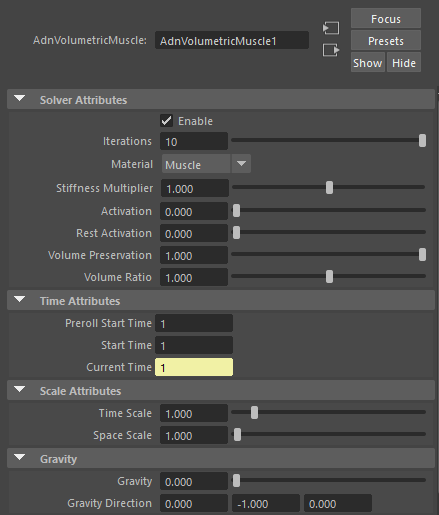
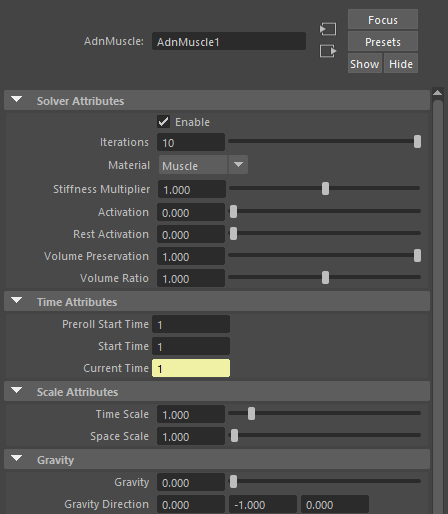
- Use of "AdnMuscle" instead of "Muscle" - Add pending/updated screenshots. - Fix broken references. - Small adjustments.

diff --git a/docs/documentation/maya/muscle.md b/docs/documentation/maya/muscle.md
@@ -2,13 +2,11 @@
 
 AdnMuscle is a Maya deformer for fast, robust and easy-to-configure volumetric muscle simulation for digital assets. Thanks to the combination of internal (structural) and external (attachments) constraints, this deformer can produce dynamics that allow the mesh to acquire the simulated characteristics of a muscle with realistic volume preservation, fibers activations to modulate the rigidity and attachments properties to external objects to follow the global kinematics of the character.
 
-<!-- DEV NOTE: change paint tool references once tools.md has been merged-->
-
-The influence of these constraints have in the simulated mesh can be freely modified by painting them via the [AdonisFX Paint Tool](index.md) or by uniformingly regulating their influence via multipliers in the attribute editor. Beyond these constraints, several paramenters to regulate the muscle's dynamics are available to modify the deformer's behaviour as a whole.
+The influence of these constraints have in the simulated mesh can be freely modified by painting them via the [AdonisFX Paint Tool](tools.md#adonisfx-paint-tool) or by uniformingly regulating their influence via multipliers in the attribute editor. Beyond these constraints, several paramenters to regulate the muscle's dynamics are available to modify the deformer's behaviour as a whole.
 
 # How to Use
 
-The Adonis Muscle deformer is of great simplicity so set up and apply to a mesh within a Maya scene. The way this deformer works, a mesh (the simulated mesh) is set within a scene, usually with a series of attachments. Those attachments mark the anchor points for the muscle, prepared to act as tendons, and will set great part of the dynamics of the deformer.
+The AdnMuscle deformer is of great simplicity so set up and apply to a mesh within a Maya scene. The way this deformer works, a mesh (the simulated mesh) is set within a scene, usually with a series of attachments. Those attachments mark the anchor points for the muscle, prepared to act as tendons, and will set great part of the dynamics of the deformer.
 
 ## Requirements
 
@@ -17,37 +15,35 @@ To create a Muscle deformer within a Maya scene, the following inputs must be pr
   - <b class="mesh_color"> Attachments </b> to which the simulated muscle will be attached to. Any transform node can be used (e.g. bones, locators, meshes, etc). This input is optional and unlimited.
   - <b class="mesh_color"> Muscle Geometry </b> that the muscle deformer will be applied onto.
 
-!!! Notes
-    - It is not mandatory to select the attachments on creation of the muscle deformer. We can add and remove attachments after creating the deformer, check this [advanced section](#how-to-add-and-remove-attachments) for further details.
+> [!NOTE]
+> - It is not mandatory to select the attachments on creation of the muscle deformer. We can add and remove attachments after creating the deformer, check this [advanced section](#attachments) for further details.
 
 ## Create Muscle
 
 1. Select the attachments (if any), then the geometry.
 2. Press the ![Muscle button](images/adn_muscle.png){width=40px} button in the AdonisFX shelf or press Muscle in the AdonisFX menu. 
     - If the shelf button is double-clicked or the option box in the menu is selected a window will be displayed were a custom name and initial attribute values can be set.
-3. The muscle is ready to simulate with default settings. Check [this page](#attributes) to customize the configuration.
+3. The muscle is ready to simulate with default settings. Check [this section](#attributes) to customize the configuration.
 
 ## Paintable Weights
 
-In order to provide more artistic control, some key parameters of the muscle solver are exposed as paintable attributes in the deformer. The [AdonisFX Paint Tool](#index.md) must be used to paint those parameters to ensure that the values satisfy the solver requirements.
+In order to provide more artistic control, some key parameters of the muscle solver are exposed as paintable attributes in the deformer. The [AdonisFX Paint Tool](tools.md#adonisfx-paint-tool) must be used to paint those parameters to ensure that the values satisfy the solver requirements.
 
 - *Tendons*: floating values to indicate the source of the muscle fibers. The solver will use that information to make an estimation of the fiber direction at each vertex. We recommend to set a value of 1.0 wherever the tendinous tissue would be in an anatomically realistic muscle and a value of 0.0 in the rest of the mesh.
 - *Attachment Constraints*: weight to indicate the influence of each attachment at each vertex of the muscle.
-- *Fibers*: the deformer estimates the fiber directions at each vertex based on the tendon weights. In case that the estimated fibers do not fit well to the desired directions, we can use the paint tool to comb the fibers manually. The fibers can be displayed using the [Draw Fibers](#debug) option in the deformer 
+- *Fibers*: the deformer estimates the fiber directions at each vertex based on the tendon weights. In case that the estimated fibers do not fit well to the desired directions, we can use the paint tool to comb the fibers manually. The fibers can be displayed using the [Draw Fibers](#debug-features) option in the deformer 
 - *Compression Resistance*: force to correct the edge lengths if the current length is smaller than the rest length. A higher value represents higher correction.
 - *Stretching Resistance*: force to correct the edge lengths if the current length is greater than the rest length. A higher value represents higher correction.
 - *Slide on Segment Constraints*: weight to force vertices to displace only in the direction of a user-specified group of segments.
 
 <figure>
   <img src="images/muscle_paint_example.png"> 
-  <figcaption>Figure 1: Example of painted weights on a biceps. From left to right: Tendons weights, Attachment weight for the attachment at the top, Attachment weight for the attachment at the bottom; and Fibers directions at each vertex.</figcaption>
+  <figcaption><b>Figure 1:</b> Example of painted weights on a biceps. From left to right: Tendons weights, Attachment weight for the attachment at the top, Attachment weight for the attachment at the bottom; and Fibers directions at each vertex.</figcaption>
 </figure>
 
 > [!NOTE]
 > - The attachment weights are normalised at each vertex. This normalisation is applied when a stroke is finished. The use of the AdonisFX painting tool is mandatory for that. The basics of the paint tool are explained in [this section](#adonisfx-paint-tool).
 > - We recommend to paint the values for the most influent attractors at the end in order to avoid the internal normalisation override them in further strokes.
-
-<!-- DEV NOTE: Remove this after merging issue #11 where we created the tools.md page -->
 
 ### AdonisFX Paint Tool
 
@@ -55,7 +51,7 @@ To configure the paintable attributes in the Muscle deformer, the AdonisFX paint
 
 <figure>
   <img src="images/paint_tool_muscle.png"> 
-  <figcaption>Figure 2: AdonisFX Paint Tool</figcaption>
+  <figcaption><b>Figure 2:</b> AdonisFX Paint Tool</figcaption>
 </figure>
 
 Do the following to open the tool:
@@ -65,9 +61,9 @@ Do the following to open the tool:
 
 The selected attribute in the combo box exposed at the top of the UI is the active attribute in the paint context. Now you can use the tool as it was the Artisan's tool from Maya, the behaviour of the different widgets/fields is the same.
 
-<figure style="margin-left:30%;" markdown> 
+<figure markdown>
   ![Pain Tool Muscles Attributes example](images/paint_tool_muscle_attributes.png) 
-  <figcaption style="margin-right:30%"> Figure 3: AdonisFX paint tool displaying the paintable attributes of the deformer. </figcaption> 
+  <figcaption><b>Figure 3:</b> AdonisFX paint tool displaying the paintable attributes of the deformer. </figcaption>
 </figure>
 
 Following, we present the key aspects to keep in mind while painting each attribute:
@@ -80,12 +76,17 @@ Following, we present the key aspects to keep in mind while painting each attrib
   2. Tendons
     1. We recommend to paint values of 1.0 wherever the tendon tissue is and values of 0.0 in the rest of the mesh. This painting will internally trigger an automatic estimation of fibers directions.
   3. Fibers
-    1. To visualise the fibers, enable the [Draw Fibers](#debug) attribute in the deformer or go to the Adonis menu > Edit Muscle > Draw Fibers.
+    1. To visualise the fibers, enable the [Draw Fibers](#debug-features) attribute in the deformer or go to the Adonis menu > Edit Muscle > Draw Fibers.
     2. From the deformer Attribute Editor, it is also possible to scale the fibers vectors for debugging purposes.
     3. Comb the fibers towards the desired direction.
   4. Stretching and Compression Resistance
     1. Stretching resistance is set to 1.0 by default. With this value, the solver will apply the corrections to the edges needed to keep the lengths at rest. Set values lower than 1.0 to linearly reduce the amount of correction applied by the solver when the edges get stretched.
     2. Compression resistance is set to 1.0 by default. With this value, the solver will apply the corrections to the edges needed to keep the lengths at rest. Set values lower than 1.0 to linearly reduce the amount of correction applied by the solver when the edges get compressed.
+  5. Slide On Segments.
+    1. If this attribute type is selected, then a list widget is shown with the names of the segments (combination of anchor points) connected to the AdnMuscle deformer.
+    2. Select the desired segment you want to paint from the list widget and paint the weight values.
+    3. If more than one segment was added to the system, then the paint tool will normalise the weights automatically after a stroke has been completed.
+    4. If any anchor/segment is removed or added to the system, then the paint tool will refresh the list on mouse hover over the UI.
 
 # Attributes
 
@@ -99,7 +100,7 @@ Following, we present the key aspects to keep in mind while painting each attrib
     <ul><li>Fat: 10^7^</li><li>Muscle: 5e^3^</li><li>Rubber: 10^6^</li><li>Tendon: 5e^7^</li><li>Leather: 10^8^</li><li>Wood: 6e^9^</li><li>Concrete: 2.5e^10^</li></ul>
  - **Stiffness Multiplier** (Float, 1.0): Multiplier factor to scale up or down the material stiffness.
      - Has a range of \[0.0, 2.0\]
- - **Activation** (Float, 0.0): Current activation of the deformed ribbon muscle. The activation modifies the stiffness of the muscle depending on the fibers direction of the muscle.
+ - **Activation** (Float, 0.0): Current activation of the deformed muscle. The activation modifies the stiffness of the muscle depending on the fibers direction of the muscle.
      - Has a range of \[0.0, 1.0\]
  - **Rest Activation** (Float, 0.0): Value representing the amount of rest activation to apply to the muscle.
      - Has a range of \[0.0, 1.0\]
@@ -146,30 +147,30 @@ Following, we present the key aspects to keep in mind while painting each attrib
 ## Attribute Editor Template
 
 <figure markdown>
-  ![Muscle editor first part](images/attribute_editor_part_one_muscle.png) 
-  <figcaption>Figure 1: Muscle Attribute Editor</figcaption>
+  ![AdnMuscle editor first part](images/attribute_editor_part_one_muscle.png) 
+  <figcaption><b>Figure 4:</b> AdnMuscle Attribute Editor</figcaption>
 </figure>
 
 <figure markdown>
-  ![Muscle editor second part](images/attribute_editor_part_two_muscle.png)
-  <figcaption>Figure 2: Muscle Attribute Editor (Advanced Settings)</figcaption>
+  ![AdnMuscle editor second part](images/attribute_editor_part_two_muscle.png)
+  <figcaption><b>Figure 5:</b> AdnMuscle Attribute Editor (Advanced Settings)</figcaption>
 </figure>
 
 # Advanced
 
 ## Attachments
 
-Once the Muscle deformer is created, it is possible to add and remove new attachments to the system. 
+Once the AdnMuscle deformer is created, it is possible to add and remove new attachments to the system. 
 
 - **Add attachments**:  
     1. Select the transform nodes (one or more) that you want to assign as attachments to the Muscle.
-    2. Select the mesh that has the Muscle deformer applied.
-    3. Press the ![Add Attachments button](images/adn_add_attachment.png){width=40px} button in the AdonisFX shelf or press Add Attachments in the AdonisFX menu from the Edit Muscle submenu.
+    2. Select the mesh that has the AdnMuscle deformer applied.
+    3. Press the ![Add Attachments button](images/adn_add_attachment.png){width=40px} button in the AdonisFX shelf or press "Add Attachments" in the AdonisFX menu from the Edit Muscle submenu.
 - **Remove attachments**:
     1. Select one or more transform nodes that are assigned as attachments to the Muscle.
-    2. Select the mesh that has the Muscle deformer applied.
-    3. Press the ![Remove Attachments button](images/adn_remove_attachment.png){width=40px} button in the AdonisFX shelf or press Remove Attachments in the AdonisFX menu from the Edit Muscle submenu. 
-    4. Alternatively, if only the mesh with the Muscle deformer is selected, when pressing the ![Remove Attachments button](images/adn_remove_attachment.png){width=40px} button, all attachments will be removed.
+    2. Select the mesh that has the AdnMuscle deformer applied.
+    3. Press the ![Remove Attachments button](images/adn_remove_attachment.png){width=40px} button in the AdonisFX shelf or press "Remove Attachments" in the AdonisFX menu from the Edit Muscle submenu. 
+    4. Alternatively, if only the mesh with the AdnMuscle deformer is selected, when pressing the ![Remove Attachments button](images/adn_remove_attachment.png){width=40px} button, all attachments will be removed.
 
 ## Slide on Segment Constraint
 
@@ -177,29 +178,34 @@ Additionally to all previously mentioned constraints, muscles can have an additi
 
 - **Add Segment**:
     1. Select the transform nodes (two or more if this is the first segment you are adding) from which you would wish to make a segment for the muscle to slide on.
-    2. Select the mesh that has the Muscle deformer applied.
-    3. Press Add Attachments in the AdonisFX menu from the Edit Muscle submenu.
+    2. Select the mesh that has the AdnMuscle deformer applied.
+    3. Press "Add Slide On Segment Constraint" in the AdonisFX menu from the Edit Muscle submenu.
 - **Remove Segment**:  
     1. Select one or more transform nodes that are assigned as attachments to the Muscle.
-    2. Select the mesh that has the Muscle deformer applied.
-    3. press Remove Attachments in the AdonisFX menu from the Edit Muscle submenu. 
-    4. Alternatively, if only the mesh with the Muscle deformer is selected, when pressing Remove Attachments in the AdonisFX menu, all attachments will be removed.
+    2. Select the mesh that has the AdnMuscle deformer applied.
+    3. press "Remove Slide On Segment Constraint" in the AdonisFX menu from the Edit Muscle submenu. 
+    4. Alternatively, if only the mesh with the AdnMuscle deformer is selected, when pressing "Remove Slide On Segment Constraint" in the AdonisFX menu, all attachments will be removed.
 
 ## Debugger
 
-To better visualize deformer constraints and attributes in the Maya viewport there is the option to enable the debugger, found in the dropdown menu labeled "Debug" in the attribute editor.
+In order to better visualize deformer constraints and attributes in the Maya viewport there is the option to enable the debugger, found in the dropdown menu labeled "Debug" in the attribute editor.
 
-To enable the debugger the *Debug* checkbox must be marked.To select the specific feature you would like to visualize, choose it from the list provided in *Features*. 
+To enable the debugger the *Debug* checkbox must be marked. To select the specific feature you would like to visualize, choose it from the list provided in *Features*. 
 
 ### Debug features
 
-The features that can be visualized with the debugger in the Skin deformer are:
+The features that can be visualized with the debugger in the AdnMuscle deformer are:
 
  - **Muscle Fibers**: for each vertex, a line will be drawn showing the direction of the muscle fibers.
  - **Attachments Constraints**: for each vertex with an attachment constraint weight greater than 0.0, a line will be drawn from the mesh to its respective attachment.
  - **Sliding on Segment Constraints**: for each vertex with a sliding on segment weight greater than 0.0, a line will be drawn from the mesh to the closest point to its respective segment.
 
-Enabling the debugger and selecting one of these constraints will draw lines from the influenced vertices in the simulated mesh to their corresponding reference vertices. 
+Enabling the debugger and selecting one of these constraints will draw lines from the influenced vertices in the simulated mesh to their corresponding reference vertices.
+
+<figure markdown>
+  ![AdnMuscle debug](images/muscle_debug.png)
+  <figcaption><b>Figure 6:</b> AdnMuscle being debugged (from left ro right, "Muscle Fibers", "Attachment Constraints" and "Slide On Segment")</figcaption>
+</figure>
 
 ### Debugger attributes
 
@@ -213,6 +219,6 @@ Additionally, for the specific case of debugging fibers, one more attribute is a
  - **Fiber scale value** (Float, 3.0): can be modified to set a custom fiber length.
 
 <figure markdown>
-  ![Muscle editor debug menu](images/attribute_editor_muscle_debug.png)
-  <figcaption>Figure 4: Muscle Attribute Editor (Debug menu)</figcaption>
+  ![AdnMuscle editor debug menu](images/attribute_editor_muscle_debug.png)
+  <figcaption><b>Figure 7:</b> AdnMuscle Attribute Editor (Debug menu)</figcaption>
 </figure>
